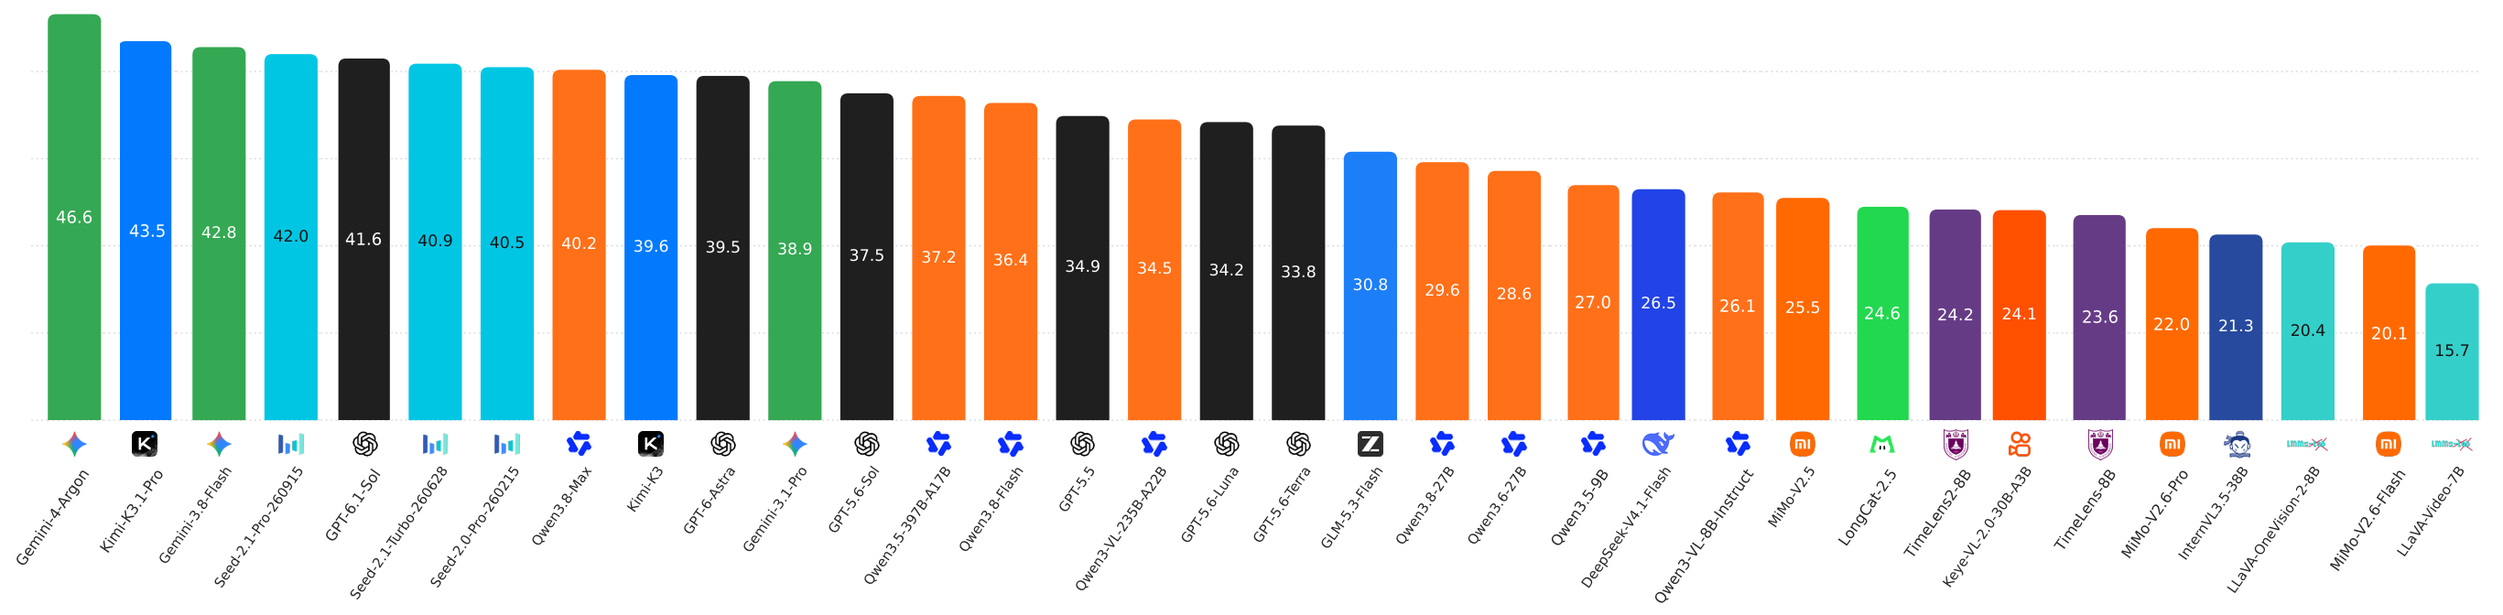
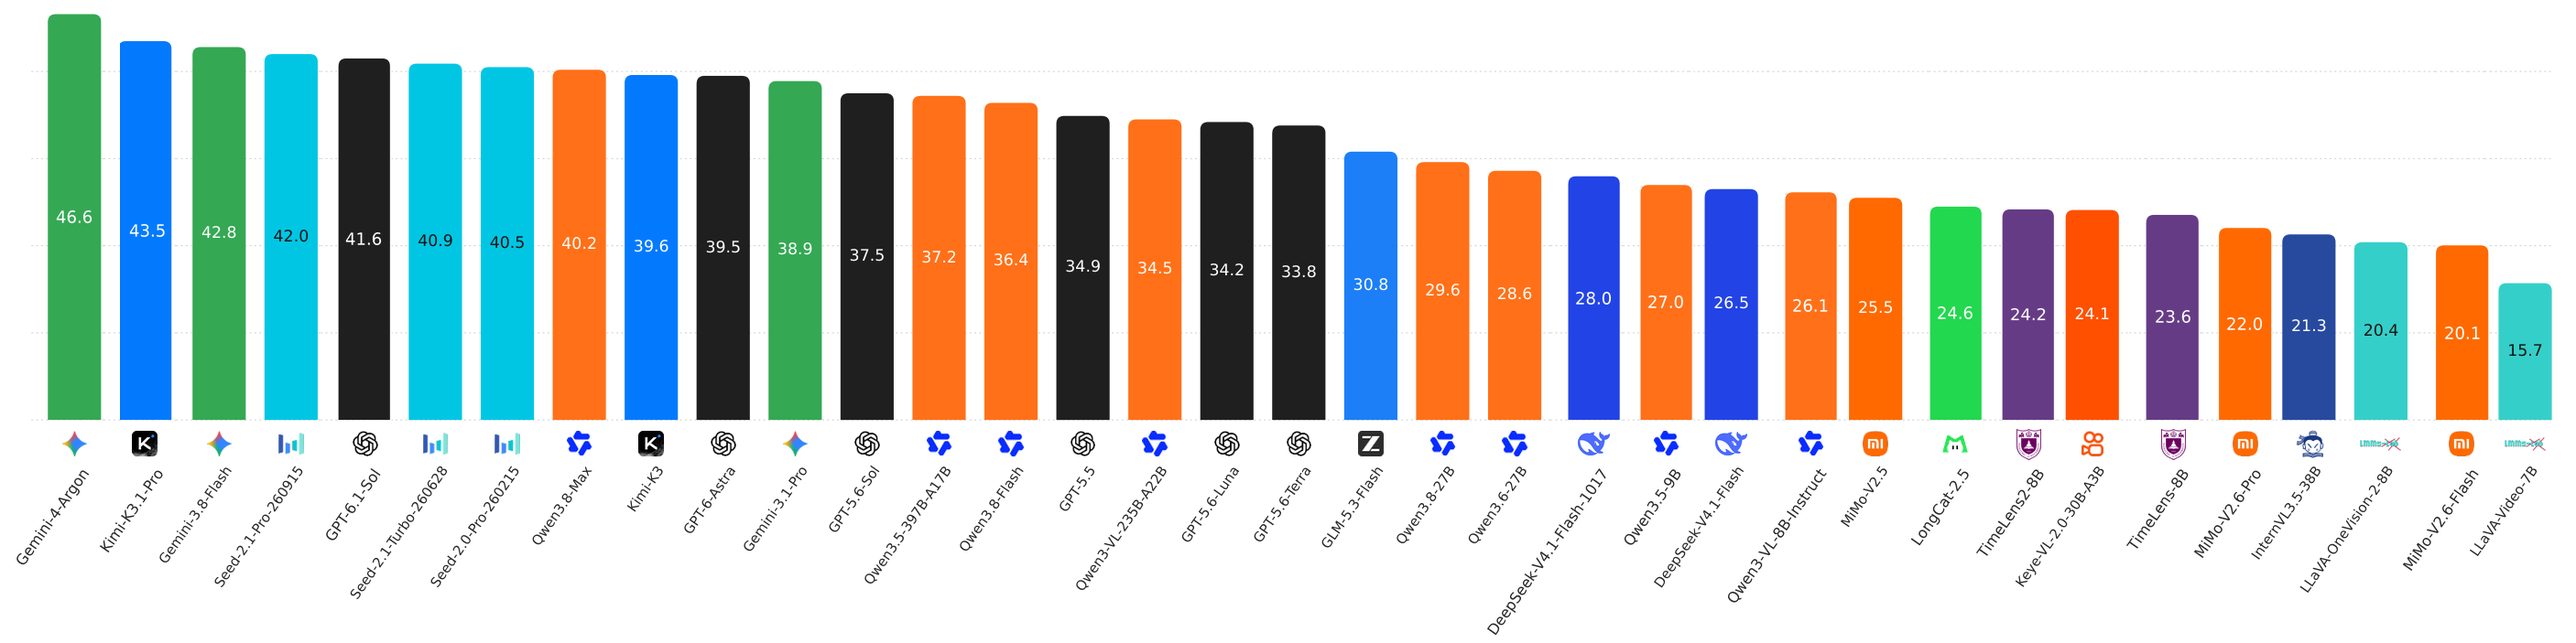
Add audited DeepSeek-V4.1-Flash-1017 VL64 results and refresh Index

Changed region(s): [[0.0, 0.0625, 0.9949, 0.9375], [0.5596, 0.9375, 0.5907, 0.9688]]

diff --git a/README.md b/README.md
@@ -51,6 +51,7 @@ OmniCompass is a holistic benchmark for omni-modal video grounding and understan
 
 ## 🔥 News
 
+* **`2026.11.05`** Added [DeepSeek-V4.1-Flash-1017](https://huggingface.co/deepseek-ai/DeepSeek-V4.1-Flash-1017) to the 64-frame VL leaderboard and Index. CS: TG **14.9**, SG **12.5**, QA **56.7**, Avg **28.0**. We have now evaluated **57 models**; full results are on the [leaderboard](https://omnicompass.netlify.app/#leaderboard).
 * **`2026.10.17`** ✅✅ We have integrated OmniCompass into [LMMs-Eval](https://github.com/EvolvingLMMs-Lab/lmms-eval)! You can now evaluate your models on our benchmark by following the instructions [here](https://github.com/EvolvingLMMs-Lab/lmms-eval/blob/main/lmms_eval/tasks/omnicompass/README.md).
 * **`2026.10.06`** 🤗🤗 We release OmniCompass, a holistic benchmark for omni-modal video grounding and understanding.
 
